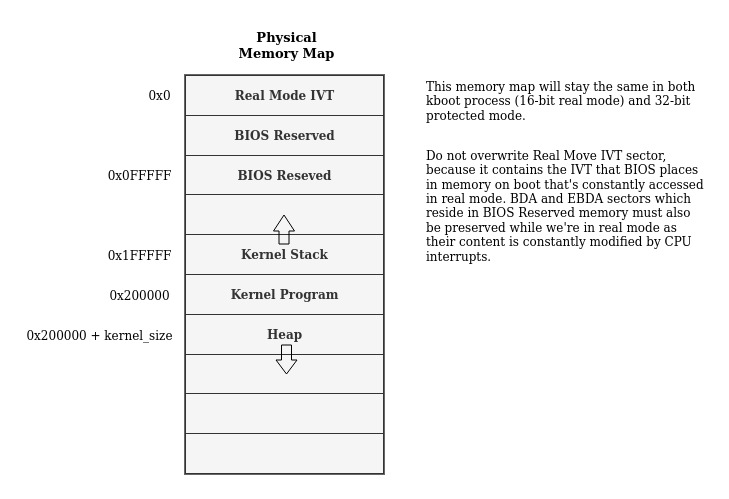
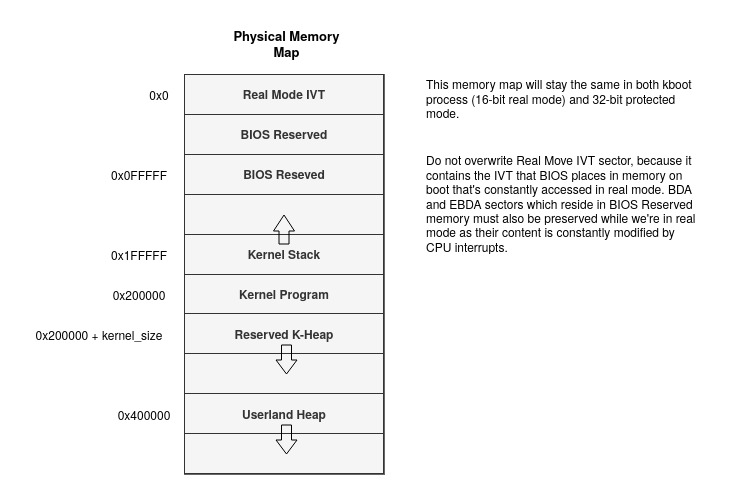
update doc for phys mem map, pageframe_alloc reserves first 4 MiB for kernel data

diff --git a/kernel/mmu/pageframe_alloc.c b/kernel/mmu/pageframe_alloc.c
@@ -11,6 +11,11 @@ void pageframe_alloc_init() {
     pages_total = (kinfo->phys_mem_upper * 1024) / 4096;
 	// 1 bit represents 1 page in phys mem (4 KiB). We assign just enough for the bitmap of physical memory.
 	pageframe_bitmap = kmalloc_align(pages_total / 8, 4096);
+
+    // Reserved Kernel data area (1024 pages - 4 MiB) starting from 0x0.
+    for (unsigned int i = 0; i < 0x400; i += 8) {
+        pageframe_alloc_set_pages(i, 8);
+    }
 }
 
 static void pageframe_alloc_set_page(unsigned int page_no) {
